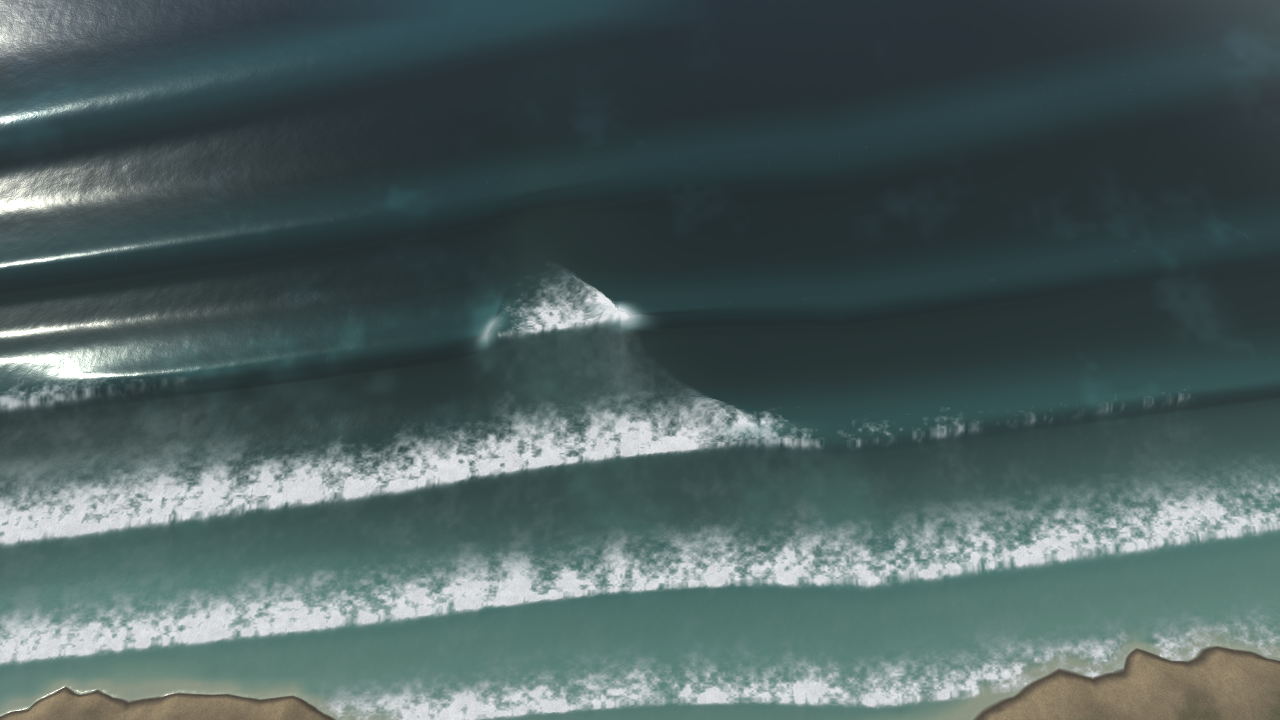
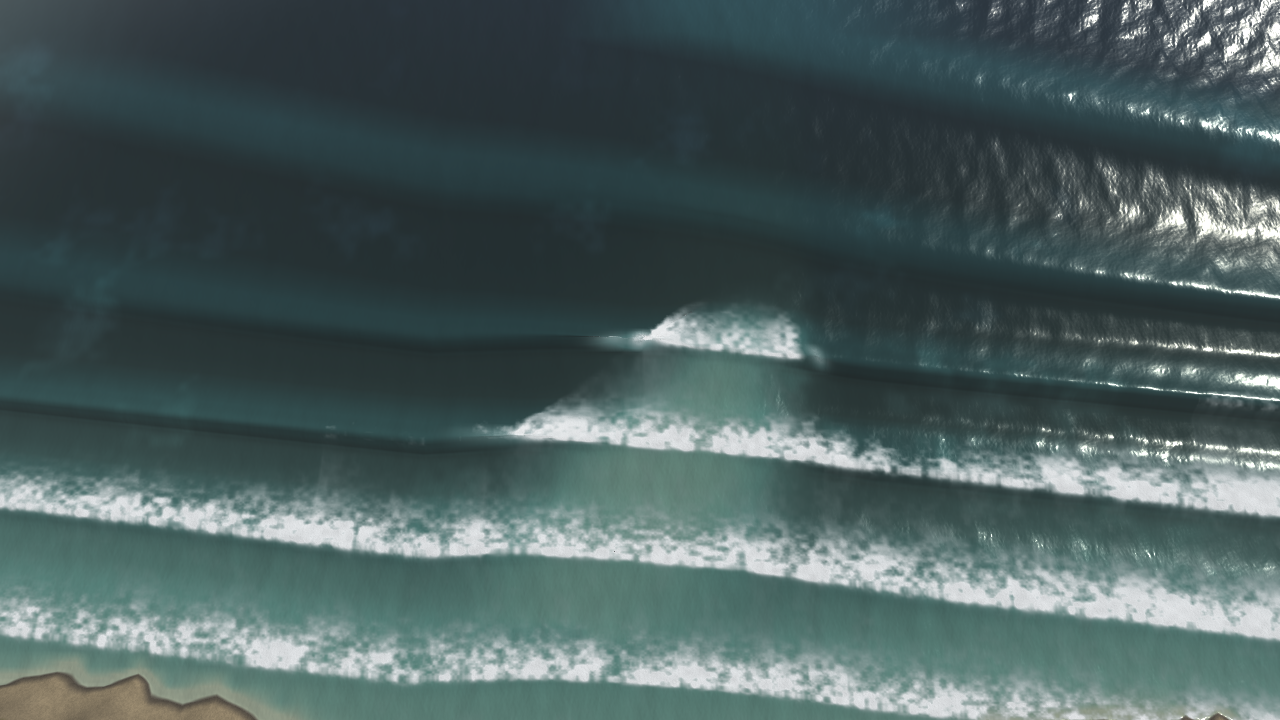
docs(figures): regenerate the seven drone frames, fig-week and the QA set after the unmirror and the reef refit
The essay's inline copy of fig-week is synced from the regenerated SVG
(its captions carried the pre-2026-08-13 peel angles). capture_presets
gains --base/--port. The og hero is not replaced; a review candidate is
saved beside it. Published QA set rebuilt at b78be48 (qa/ is ignored;
it ships with build_site --with-qa).

diff --git a/docs/figures/index.html b/docs/figures/index.html
@@ -472,7 +472,7 @@
 <div class="page">
 
   <header class="essay-header">
-  <p class="kicker">Work in progress &middot; <time datetime="2026-08-28">Last updated 28 August 2026</time> &middot; Santa Cruz, California</p>
+  <p class="kicker">Work in progress &middot; <time datetime="2026-09-24">Last updated 24 September 2026</time> &middot; Santa Cruz, California</p>
   <h1>Modelling the waves at Pleasure Point</h1>
   <figure class="sim-figure hero-sim">
     <div class="sim-frame">
@@ -951,7 +951,7 @@ depth and exposure.</desc>
 <text class="week-wk-title" x="40" y="58">SEVEN SITES — one point, apex to down-point</text>
 <rect class="week-wk-badge" x="1340" y="42" width="236" height="22" rx="3"/>
 <text class="week-wk-badge-t" x="1351" y="57">WORK-IN-PROGRESS RENDER</text>
-<text class="week-wk-sub" x="40" y="84">Simulated frames from the pointbreak model — not photographs, not validated, and running the since-retired guide-derived bank (see §06; the retargeted bank runs α 31–50°).</text>
+<text class="week-wk-sub" x="40" y="84">Simulated frames from the pointbreak model — not photographs, and not validated against this break.</text>
 <clipPath id="week-wk-clip0"><rect x="40" y="100" width="366" height="206" rx="3"/></clipPath>
 <g clip-path="url(#week-wk-clip0)"><svg x="40" y="100" width="366" height="206" viewBox="141.1 79.2 997.8 561.6" preserveAspectRatio="xMidYMid slice"><image xlink:href="assets/cliff_sewers.png" href="assets/cliff_sewers.png" x="0" y="0" width="1280" height="720"/></svg></g>
 <rect class="week-wk-frame" x="40" y="100" width="366" height="206" rx="3"/>
@@ -979,7 +979,7 @@ depth and exposure.</desc>
 <text x="842" y="127" text-anchor="middle" fill="#eef2f3" font="700 14px sans-serif" font-size="14" font-weight="700" font-family="-apple-system, sans-serif">3</text>
 <text class="week-wk-name" x="820" y="332">Second Peak</text>
 <line class="week-wk-rule" x1="820" y1="341" x2="1186" y2="341"/>
-<text class="week-wk-spec" x="820" y="362">α58° · ξ0.65 · σ0.15 · T14s · H0 1.5m</text>
+<text class="week-wk-spec" x="820" y="362">α41° · ξ0.65 · σ0.15 · T14s · H0 1.5m</text>
 <text class="week-wk-read" x="820" y="384">glassy shoulder, mellow</text>
 <text class="week-wk-read" x="820" y="404">crumble at the pocket</text>
 <clipPath id="week-wk-clip3"><rect x="1210" y="100" width="366" height="206" rx="3"/></clipPath>
@@ -989,7 +989,7 @@ depth and exposure.</desc>
 <text x="1232" y="127" text-anchor="middle" fill="#eef2f3" font="700 14px sans-serif" font-size="14" font-weight="700" font-family="-apple-system, sans-serif">4</text>
 <text class="week-wk-name" x="1210" y="332">Jack&#39;s (38th)</text>
 <line class="week-wk-rule" x1="1210" y1="341" x2="1576" y2="341"/>
-<text class="week-wk-spec" x="1210" y="362">α62° · ξ0.5 · σ0.1 · T13s · H0 1.1m</text>
+<text class="week-wk-spec" x="1210" y="362">α37° · ξ0.5 · σ0.1 · T13s · H0 1.1m</text>
 <text class="week-wk-read" x="1210" y="384">soft crumble along the face,</text>
 <text class="week-wk-read" x="1210" y="404">light peel, rare section</text>
 <clipPath id="week-wk-clip4"><rect x="40" y="424" width="366" height="206" rx="3"/></clipPath>
@@ -999,7 +999,7 @@ depth and exposure.</desc>
 <text x="62" y="451" text-anchor="middle" fill="#eef2f3" font="700 14px sans-serif" font-size="14" font-weight="700" font-family="-apple-system, sans-serif">5</text>
 <text class="week-wk-name" x="40" y="656">The Hook</text>
 <line class="week-wk-rule" x1="40" y1="665" x2="406" y2="665"/>
-<text class="week-wk-spec" x="40" y="686">α48° · ξ0.8 · σ0.2 · T13s · H0 1.5m</text>
+<text class="week-wk-spec" x="40" y="686">α41° · ξ0.8 · σ0.2 · T13s · H0 1.5m</text>
 <text class="week-wk-read" x="40" y="708">curling lip at the pocket,</text>
 <text class="week-wk-read" x="40" y="728">mixed crumble and section</text>
 <clipPath id="week-wk-clip5"><rect x="430" y="424" width="366" height="206" rx="3"/></clipPath>
@@ -1009,7 +1009,7 @@ depth and exposure.</desc>
 <text x="452" y="451" text-anchor="middle" fill="#eef2f3" font="700 14px sans-serif" font-size="14" font-weight="700" font-family="-apple-system, sans-serif">6</text>
 <text class="week-wk-name" x="430" y="656">Sharks</text>
 <line class="week-wk-rule" x1="430" y1="665" x2="796" y2="665"/>
-<text class="week-wk-spec" x="430" y="686">α66° · ξ0.45 · σ0.1 · T13s · H0 1m</text>
+<text class="week-wk-spec" x="430" y="686">α36° · ξ0.45 · σ0.1 · T13s · H0 1m</text>
 <text class="week-wk-read" x="430" y="708">slow rolling shoulder,</text>
 <text class="week-wk-read" x="430" y="728">wide mellow lines</text>
 <clipPath id="week-wk-clip6"><rect x="820" y="424" width="366" height="206" rx="3"/></clipPath>
@@ -1019,11 +1019,11 @@ depth and exposure.</desc>
 <text x="842" y="451" text-anchor="middle" fill="#eef2f3" font="700 14px sans-serif" font-size="14" font-weight="700" font-family="-apple-system, sans-serif">7</text>
 <text class="week-wk-name" x="820" y="656">Privates</text>
 <line class="week-wk-rule" x1="820" y1="665" x2="1186" y2="665"/>
-<text class="week-wk-spec" x="820" y="686">α70° · ξ0.35 · σ0.05 · T12s · H0 0.7m</text>
+<text class="week-wk-spec" x="820" y="686">α31° · ξ0.35 · σ0.05 · T12s · H0 0.7m</text>
 <text class="week-wk-read" x="820" y="708">thin feathering crest,</text>
 <text class="week-wk-read" x="820" y="728">barely spilling, sheltered</text>
 <line class="week-wk-rule" x1="40" y1="770" x2="1576" y2="770"/>
-<text class="week-wk-foot" x="40" y="792">α peel angle · ξ Iribarren (barrel-ness) · σ section noise · T period · H0 swell height. Six of the seven run on surveyed NCEI bathymetry; Privates runs on a synthetic stage and is labelled as such in the app.</text>
+<text class="week-wk-foot" x="40" y="792">α peel angle · ξ Iribarren (barrel-ness) · σ section noise · T period · H0 swell height. All seven run on surveyed NCEI depth profiles (Privates since 2026-09-02, on a truncated contour window).</text>
 </svg></div>
       <figcaption><span class="cap-label">Fig. 3</span> &mdash; <strong>Work-in-progress computer renders, not photographs.</strong> One frame per site, ordered apex to down-point. Parameters under each frame are read from the model's preset bank. <a href="fig-week.svg" target="_blank" rel="noopener">Open full size &#8599;</a></figcaption>
     </figure>

diff --git a/docs/figures/gen_week.py b/docs/figures/gen_week.py
@@ -143,8 +143,8 @@ def main():
     o.append(f'<line class="wk-rule" x1="{M}" y1="{fy - 22}" x2="{W - M}" y2="{fy - 22}"/>')
     o.append(f'<text class="wk-foot" x="{M}" y="{fy}">'
              'α peel angle · ξ Iribarren (barrel-ness) · σ section noise · '
-             'T period · H0 swell height. Six of the seven run on surveyed NCEI bathymetry; '
-             'Privates runs on a synthetic stage and is labelled as such in the app.</text>')
+             'T period · H0 swell height. All seven run on surveyed NCEI depth profiles '
+             '(Privates since 2026-09-02, on a truncated contour window).</text>')
     o.append('</svg>')
     OUT.write_text('\n'.join(o))
     print(f'wrote {OUT.name} ({W}x{H}) — {len(presets)} sites')

diff --git a/docs/figures/assets/PROVENANCE.md b/docs/figures/assets/PROVENANCE.md
@@ -37,6 +37,49 @@ names (Cowell's, The Slot, Middle Peak) inherited from an early preset bank.
 The bank was retargeted to the real Pleasure Point canon on 2026-08-10 and no
 borrowed names remain.
 
+## Regeneration 2026-09-24 — unmirrored site, refit reef
+
+The seven `cliff_<key>.png` frames, `fig-week.svg` and `fig-week-render.png`
+were regenerated at commit `b78be48` (main) after two model changes landed
+the same day: the stage → world mirror was removed (`604ea6a`; `#mirror=0`
+reverts) and the reef was refit with an intertidal crest allowed
+(`56219d7`; `#reef=legacy` reverts). Same rig as before — Drone camera,
+1280×720, `sim=42`, `speed=0`, `month=card`, tide 0 — driven this time against
+an already-running `scripts/serve.py` on port 8238 through the capture
+script's new `--base=` flag (`--port=` moves its built-in server; both were
+added so a capture never fights a preview port).
+
+What changed in the pictures:
+
+- **Handedness.** Every frame is now the geographically correct-handed site.
+  The previous set (2026-08-26) was the mirror image: at Sewers, First Peak,
+  Second Peak, Jack's, The Hook and Sharks the breaking head has moved from
+  the left third of the frame to the right third and the peel runs
+  screen-left, with the shore band (where one is in frame — Jack's, Sharks)
+  now bottom-left. The sun glint sits on the right, as
+  `docs/research/MIRROR_VERIFICATION_2026-09-23.md` §7 notes it would.
+- **Reef.** Second Peak, Jack's and Privates now carry the intertidal wedge
+  (crest +0.142 m NAVD88, `REEF_REFIT_2026-09-24.md` §6), and Sharks' crest
+  moved to 0.96 m below MSL. The frames are captured at tide 0 (MSL), where
+  nothing is exposed, so no shelf is visible in them; at MLLW the three spots
+  would show a ~1,500–2,600 m² shelf. The break line sits at the same
+  offshore station as before at every spot.
+- **Privates** is not a mirror comparison: the 2026-08-26 frame predated the
+  mapped bed (2026-09-02) and showed the fogged synthetic stage; the new frame
+  is the surveyed platform with the cove bottom-right. `gen_week.py`'s footer
+  no longer says six of seven run on surveyed bathymetry.
+
+The spec line under each panel is read from `shared/params.js` as before, so
+it now carries the retargeted peel bank (α 38/50/41/37/41/36/31).
+
+The og hero was **not** replaced. A review candidate was captured with
+`capture_og_hero.mjs` at the same commit and saved beside the accepted asset
+as `og_hero_candidate_2026-09-24.png`; the accepted `og_hero.png` (2026-08-10,
+`38e67ad`, which is the mirror image of the site) was restored from git. The
+candidate is unmirrored but shows bright lip-geometry artefacts on the two
+breaking heads at card size, so it is not offered as a replacement without a
+visual pass.
+
 ## Social-preview inset
 
 `og_hero.png` is a 1280×752 crop of the renderer at Sewers, Drone camera. The
